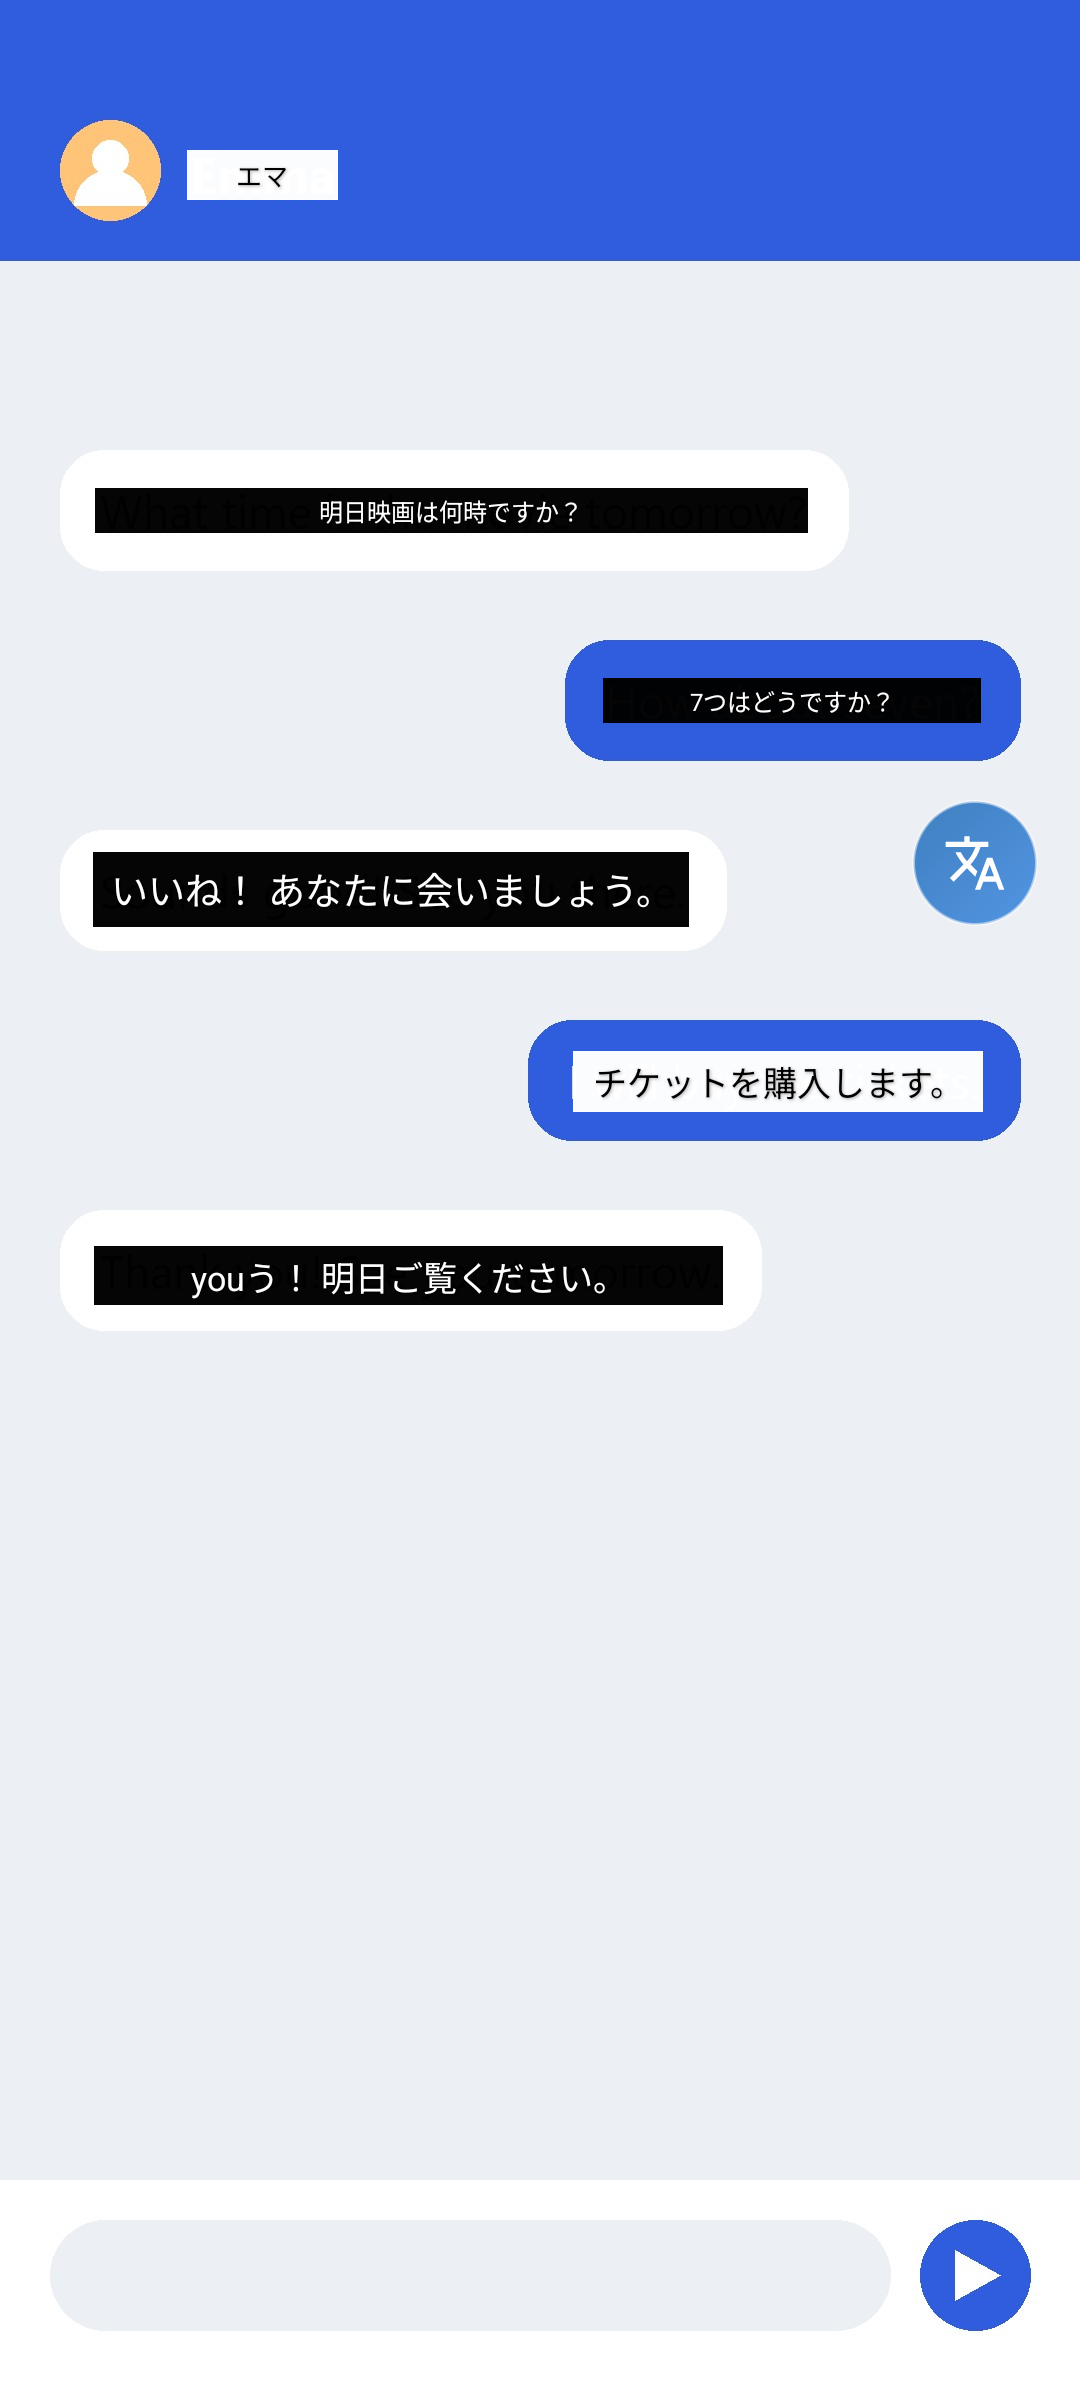
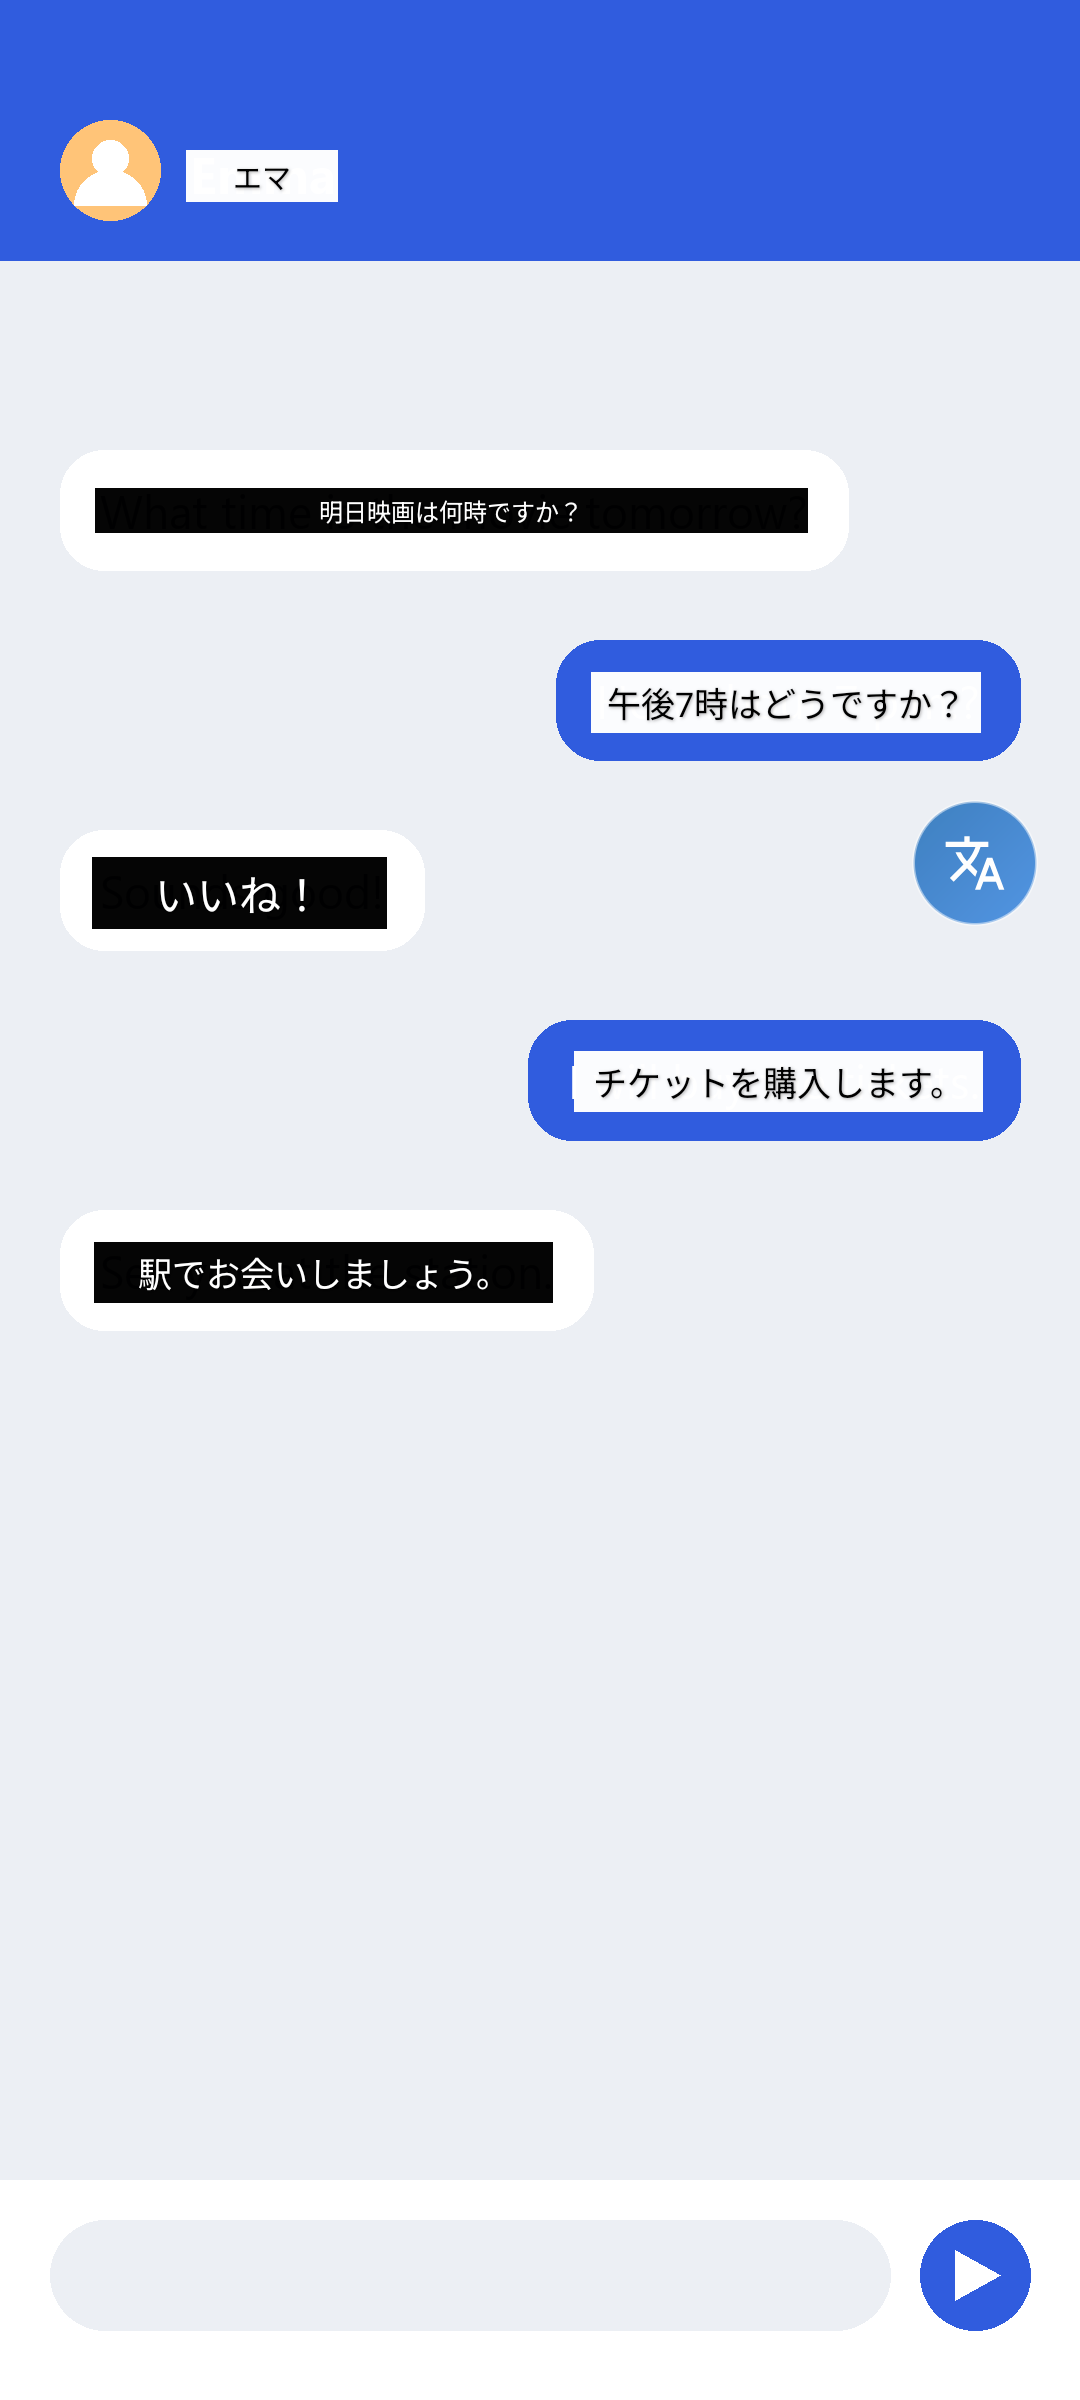
Store screenshots: finish the phone sets for en-US, zh-CN, ja-JP
Recaptured the scenes the emulator shutdown interrupted: zh-CN game,
ja-JP chat/settings/languages. The Japanese chat gets its own English
lines (Quick mode into Japanese broke "Thank you!" and "seven"), and the
English game keeps いらっしゃいませ (tavern_en.png), which AI mode renders
as "Welcome! Today's suggestion is stew." while ようこそ merged with the
name tag. Every translation in the captures was checked.

diff --git a/tools/store_assets/make_assets.py b/tools/store_assets/make_assets.py
@@ -30,7 +30,12 @@ LINES = {
         dict(box=(26, 936, 278, 1060), lines=['나랑 같이 가자!'], size=31),
         dict(box=(436, 1540, 680, 1660), lines=['좋아, 가자!'], size=34),
     ]),
-    'tavern.png': dict(lang='ja', ink=(255, 255, 255), en='Mobile RPG dialogue', items=[
+    # The English listing keeps いらっしゃいませ (AI: "Welcome! Today's suggestion
+    # is stew."); Quick mode into Chinese turned it into "这不好！", so the
+    # default lettering (Chinese listing) says ようこそ instead.
+    'tavern.png': dict(lang='ja', ink=(255, 255, 255), en='Mobile RPG dialogue',
+                       alt={'tavern_en.png': [['マーサ'], ['いらっしゃいませ！', '今日のおすすめはシチューです。']]},
+                       items=[
         dict(box=(62, 1400, 336, 1455), lines=['マーサ'], size=34, align='left'),
         dict(box=(70, 1470, 790, 1660), lines=['ようこそ！', '今日のおすすめはシチューです。'], size=40,
              align='left', valign='top'),
@@ -70,8 +75,18 @@ CHATS = {
         ('me', 'I will buy the tickets.'),
         ('them', 'Thank you! See you tomorrow.'),
     ]),
+    # English lines for the Japanese listing: Quick mode into Japanese broke
+    # "Thank you!" ("youう！") and "seven" ("7つ").
+    'en_ja': dict(name='Emma', messages=[
+        ('them', 'What time is the movie tomorrow?'),
+        ('me', 'How about 7 p.m.?'),
+        ('them', 'Sounds good!'),
+        ('me', 'I will buy the tickets.'),
+        ('them', 'See you at the station.'),
+    ]),
 }
-CHAT_FONTS = {'ja': 'C:/Windows/Fonts/YuGothM.ttc', 'en': 'C:/Windows/Fonts/segoeui.ttf'}
+CHAT_FONTS = {'ja': 'C:/Windows/Fonts/YuGothM.ttc', 'en': 'C:/Windows/Fonts/segoeui.ttf',
+              'en_ja': 'C:/Windows/Fonts/segoeui.ttf'}
 
 
 def draw_chat(lang):
@@ -80,7 +95,7 @@ def draw_chat(lang):
     im = Image.new('RGB', (W, H), (236, 239, 244))
     d = ImageDraw.Draw(im)
     f_msg = ImageFont.truetype(CHAT_FONTS[lang], 46)
-    f_name = ImageFont.truetype('C:/Windows/Fonts/segoeuib.ttf' if lang == 'en' else FONTS['ja'], 50)
+    f_name = ImageFont.truetype('C:/Windows/Fonts/segoeuib.ttf' if lang.startswith('en') else FONTS['ja'], 50)
     # Header.
     d.rectangle([0, 0, W, 260], fill=(48, 92, 222))
     # Avatar without an initial: a lone letter got OCR'd and "translated".
@@ -126,7 +141,8 @@ def main():
             alt = Image.open(os.path.join(ORIG, name)).convert('RGB')
             ad = ImageDraw.Draw(alt)
             for item, lines in zip(spec['items'], alt_lines):
-                draw_lines(ad, item['box'], lines, FONTS[spec['lang']], item['size'], spec['ink'])
+                draw_lines(ad, item['box'], lines, FONTS[spec['lang']], item['size'], spec['ink'],
+                           item.get('align', 'center'), item.get('valign', 'middle'))
             alt.crop(spec.get('screen_crop', (0, 0) + alt.size)).save(os.path.join(out, alt_name))
         if 'screen_crop' in spec:
             # One phone screen of the strip, as a webtoon reader shows it
